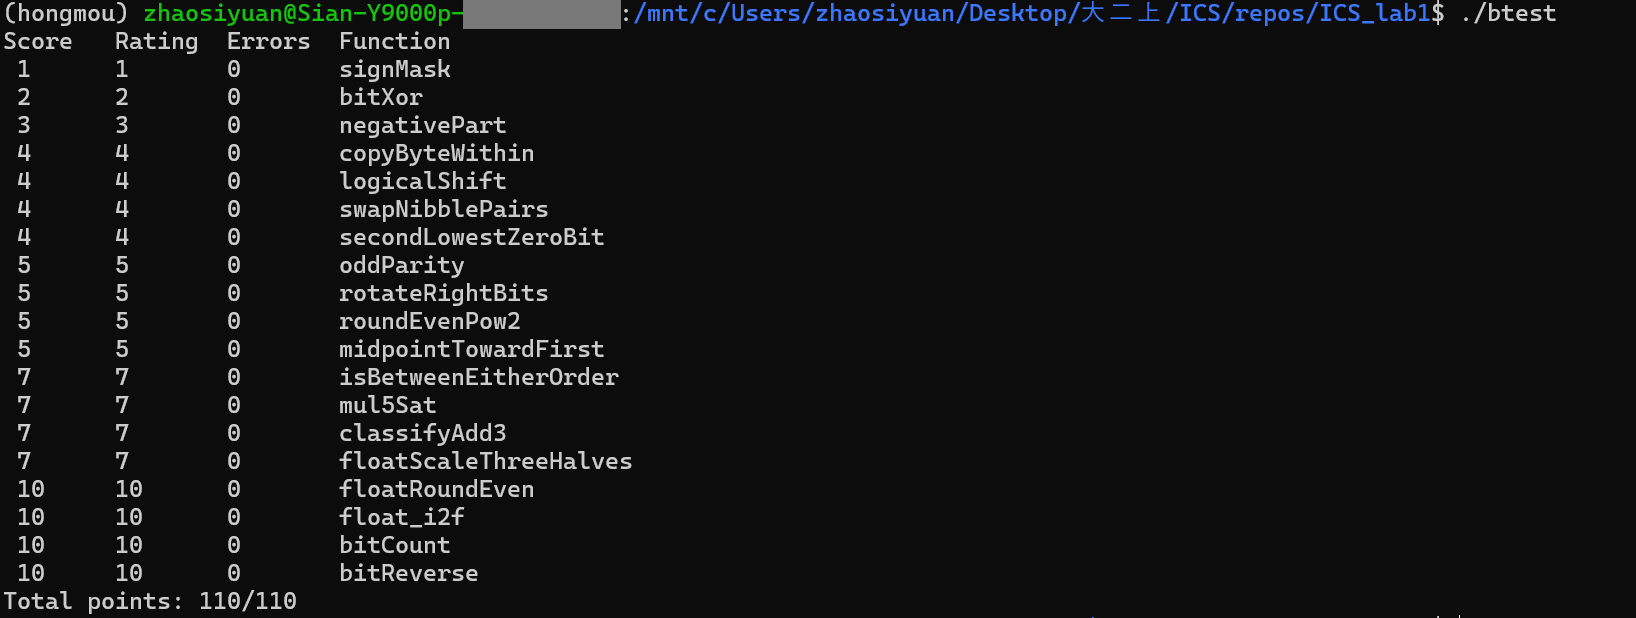
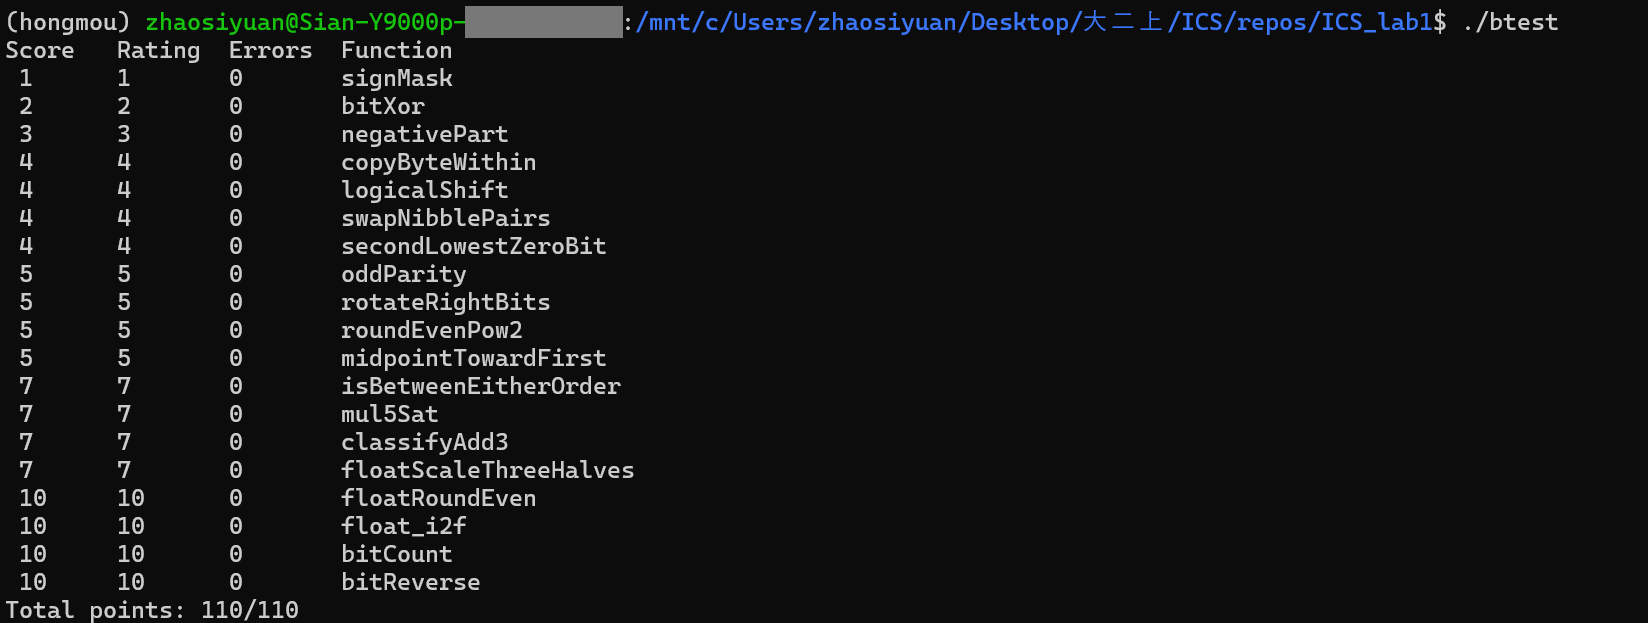
docs: build with the documented commands and retake btest screenshot

Changed region(s): [[0.0, 0.0, 0.9664, 1.0], [0.0623, 0.6456, 0.0935, 0.7071]]

diff --git a/report.md b/report.md
@@ -20,11 +20,11 @@
 | Make | 4.3 |
 | Python | 3.12.13 |
 
-我的 WSL 里没有装 32 位编译支持（`gcc-multilib`），而 Makefile 默认带 `-m32`，直接 `make all` 编译不过。GitHub 上的自动评分也没有用 `-m32`，所以本地按评分配置里的参数编译：
+32 位编译支持按实验文档安装。我的默认编译器是 gcc 14，只装文档里的 `gcc-multilib` 还不够，`-m32` 链接时会找不到 32 位的 libgcc，另外装了 `gcc-14-multilib` 才能编译。之后用文档里的命令编译，得到的 `btest` 是 32 位程序：
 
 ```bash
 make clean
-make all CFLAGS='-O -Wall -fwrapv'
+make all
 ```
 
 ### 1.2 `./check_ops.py bits.c`
